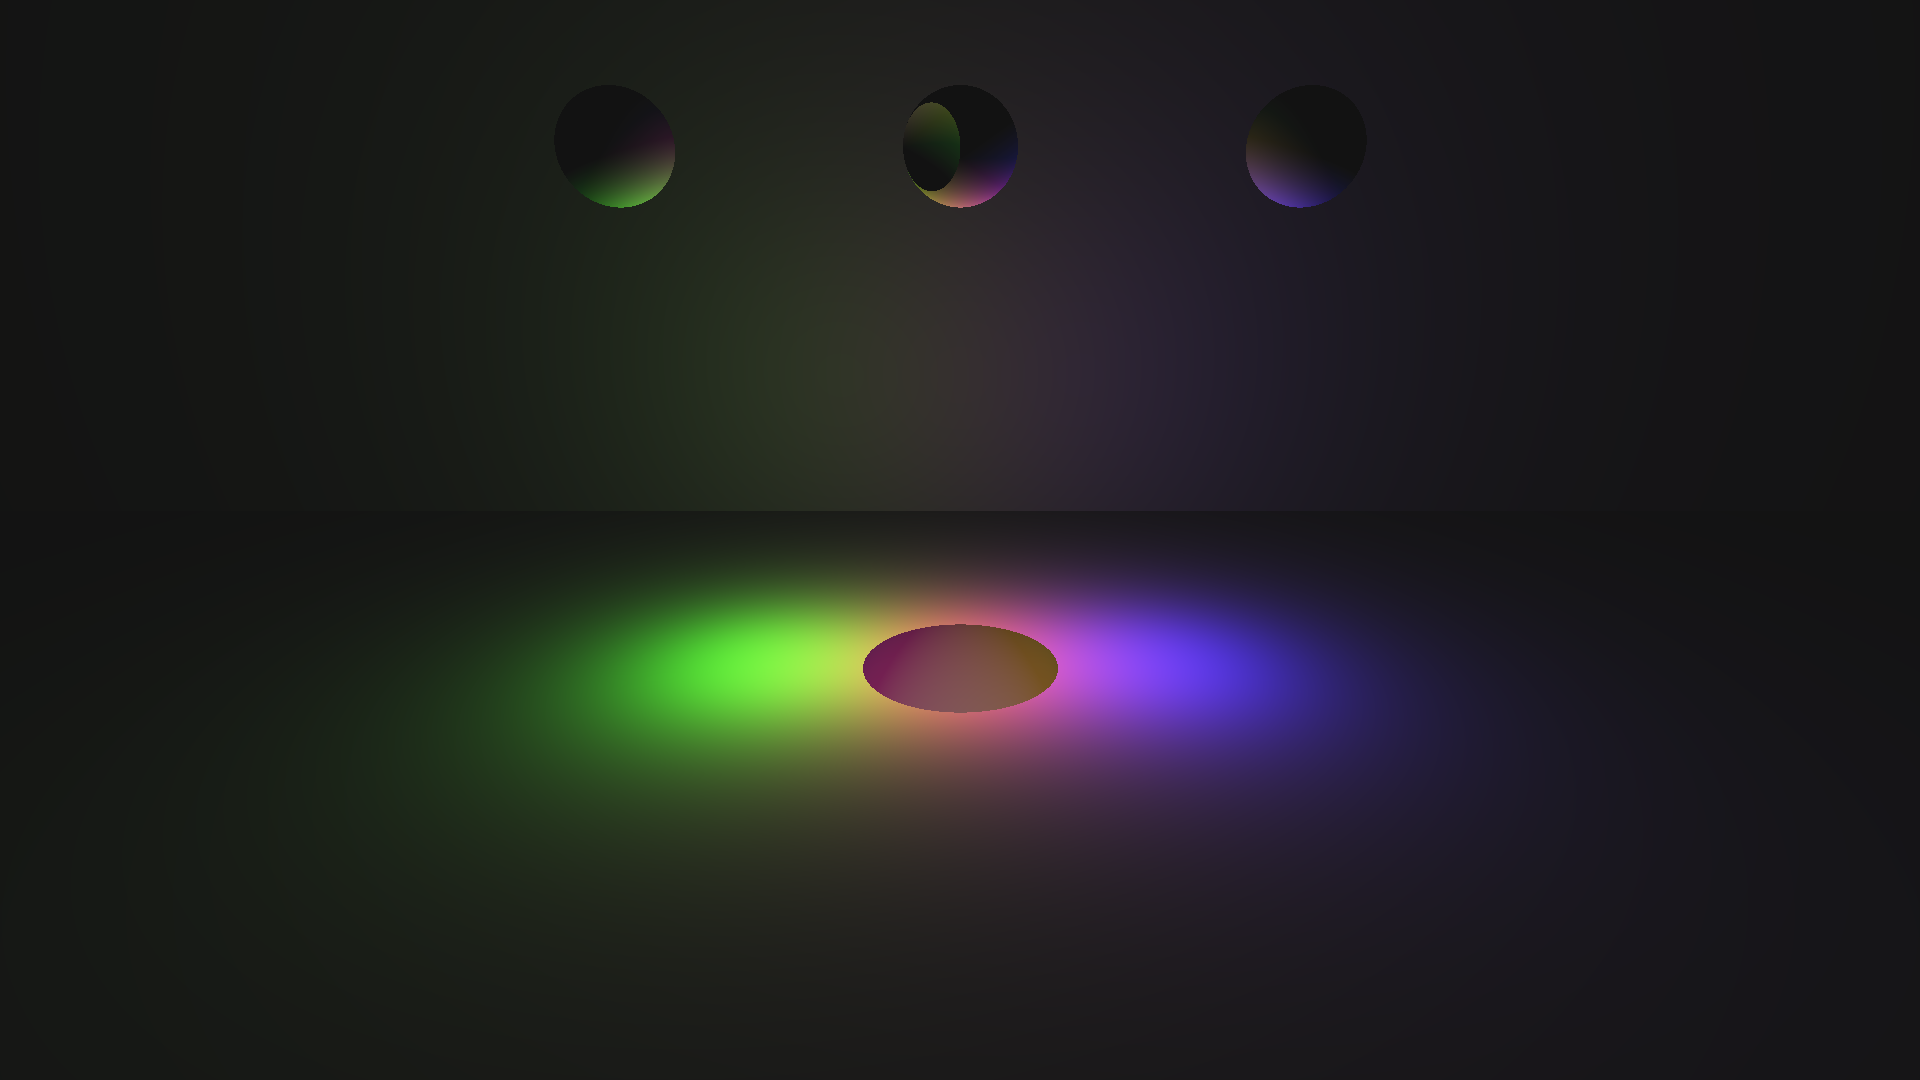
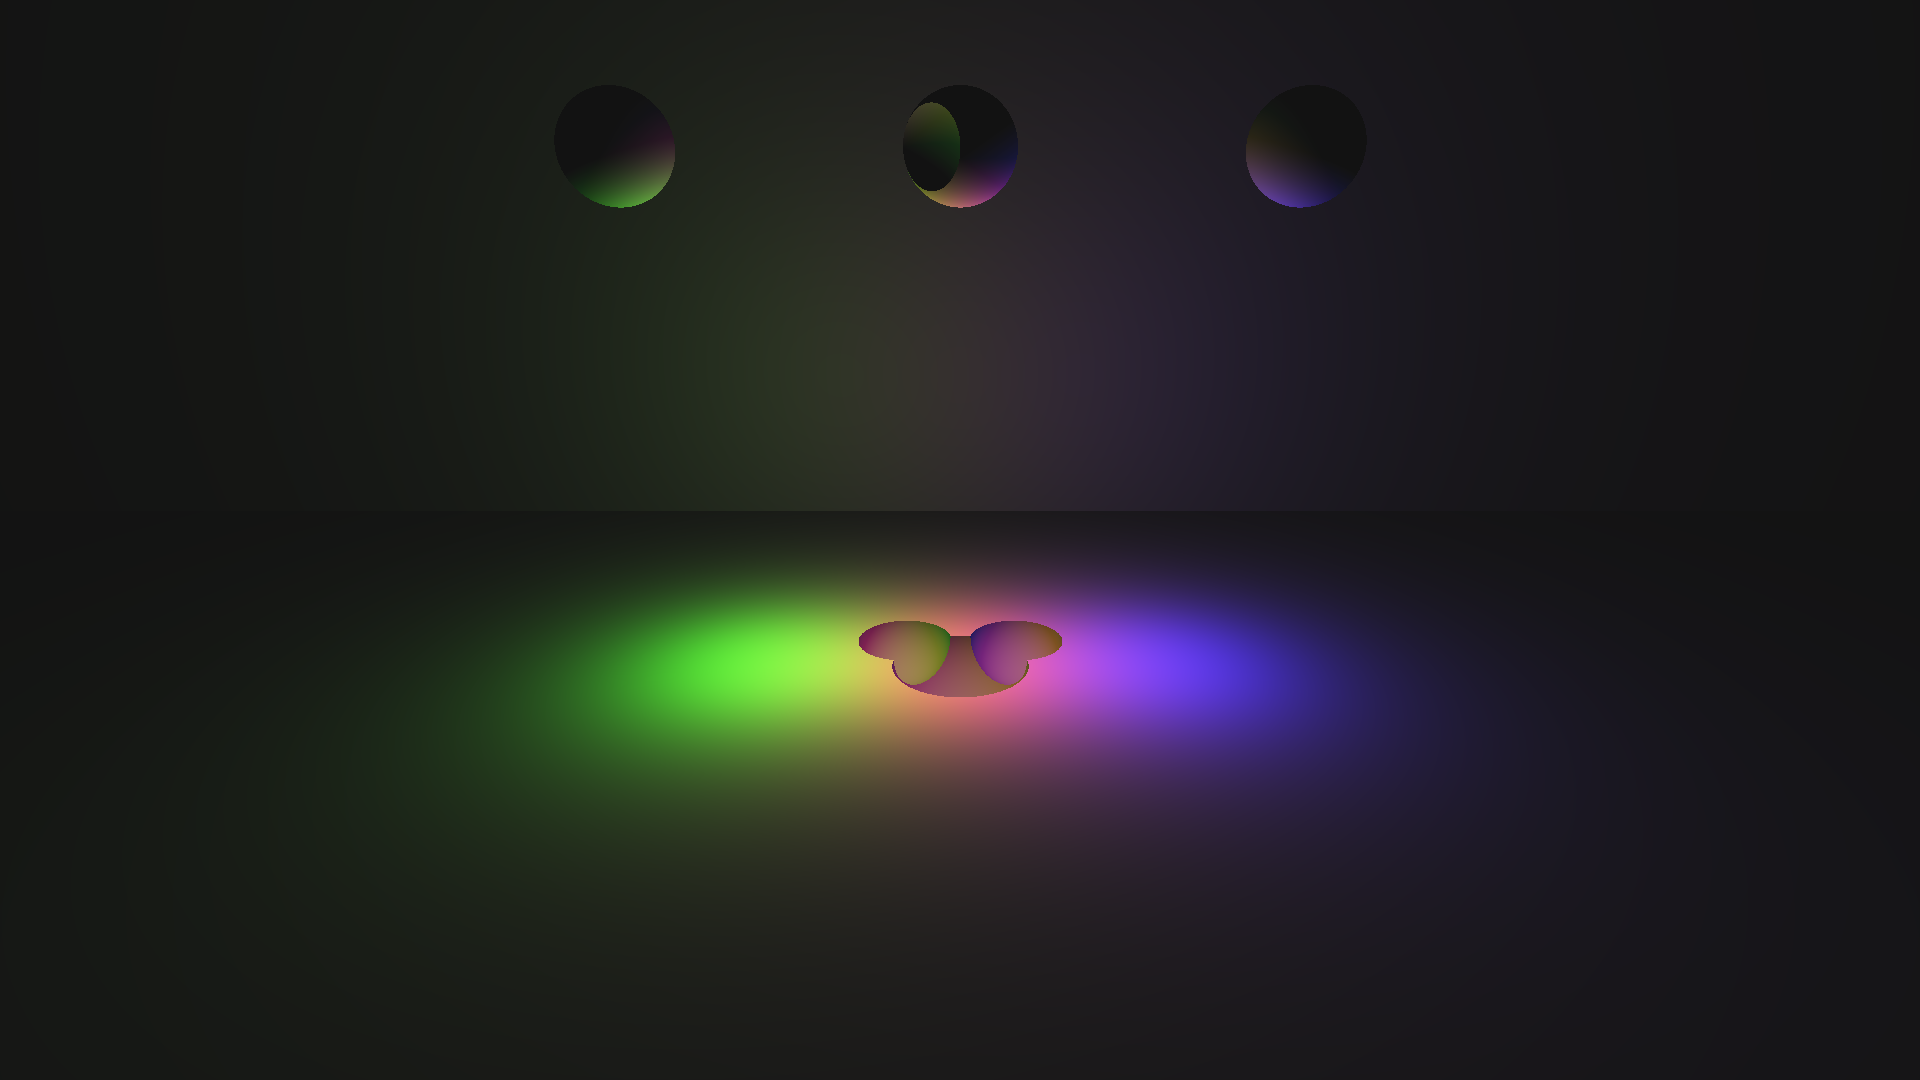
playing with sdfs

Changed region(s): [[0.4375, 0.55, 0.5625, 0.6722]]

diff --git a/src/main.rs b/src/main.rs
@@ -18,13 +18,30 @@ use material::Material;
 use quaternion::{get_rotation, rotation_from_to};
 use render::render;
 use scene::SceneBuilder;
-use signed_distance_field::{subtract, Plane, Sphere, Transform};
+use signed_distance_field::{subtract, union, Combine, Plane, Sphere, Transform};
 
 fn main() {
     let basic_white = Material::Basic((1.0, 1.0, 1.0));
 
+    let micky = union(
+        union(
+            Transform::translate(Sphere(0.5), (-0.6, 0.6, 0.0)),
+            Transform::translate(Sphere(0.5), (0.6, 0.6, 0.0)),
+        ),
+        Sphere(0.7),
+    );
+
     let floor = Entity::new(
-        Transform::translate(subtract(Plane, Sphere(1.0)), (0.0, -5.0, 0.0)),
+        Transform::translate(
+            subtract(
+                Plane,
+                Transform::rotate(
+                    micky,
+                    get_rotation(Angle::from_degrees(-90.0), (1.0, 0.0, 0.0)),
+                ),
+            ),
+            (0.0, -5.0, 0.0),
+        ),
         basic_white.clone(),
     );
 
